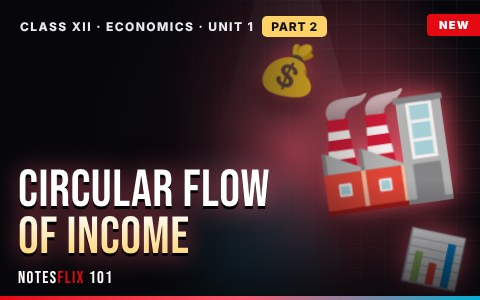
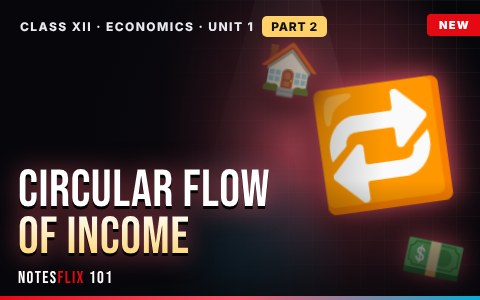
Circular Flow thumbnail with its own artwork; per-part emojis rule; refresh image cache
Claude-Session: https://claude.ai/code/session_019w6DdehTbLrXwQfJtK5Kwb

Changed region(s): [[0.5312, 0.12, 0.9688, 0.72], [0.8125, 0.72, 0.9688, 0.99]]

diff --git a/index.html b/index.html
@@ -1606,7 +1606,7 @@ CHAPTERS.forEach(function(c){
   }
   function poster(src, art, wide){
     if(src){
-      return '<img class="art" src="' + src + '?v=28" data-art="' + art + '" data-wide="' + (wide ? 1 : 0) + '" alt="" loading="lazy">';
+      return '<img class="art" src="' + src + '?v=29" data-art="' + art + '" data-wide="' + (wide ? 1 : 0) + '" alt="" loading="lazy">';
     }
     return artSVG(art, wide);
   }

diff --git a/sw.js b/sw.js
@@ -1,6 +1,6 @@
 /* Notesflix 101 — keeps the site readable without a connection.
    Bump CACHE when you change index.html so students get the new version. */
-const CACHE = "notesflix-v52";
+
 const CORE = ["./", "./index.html", "./auth-config.js", "./login.html", "./updates.json", "./manifest.json", "./img/icon-192.png"];
 
 self.addEventListener("install", (e) => {

diff --git a/_factory/README.md b/_factory/README.md
@@ -32,6 +32,8 @@ House rules (from the owner — keep all of them):
 - No teacher name, no coaching name or logo anywhere in the note.
 - Colourful and different every time: use only `$$` colour tokens (palette comes from the roadmap), draw fresh hero and concept-slide SVGs for each part.
 
+Before publishing, set this part's `emojis` in roadmap.json to 3 emojis that fit ITS topic (not the chapter default), so every episode thumbnail looks different.
+
 ## 4. Publish (one command)
 ```
 cd <repo>/_factory/tools
